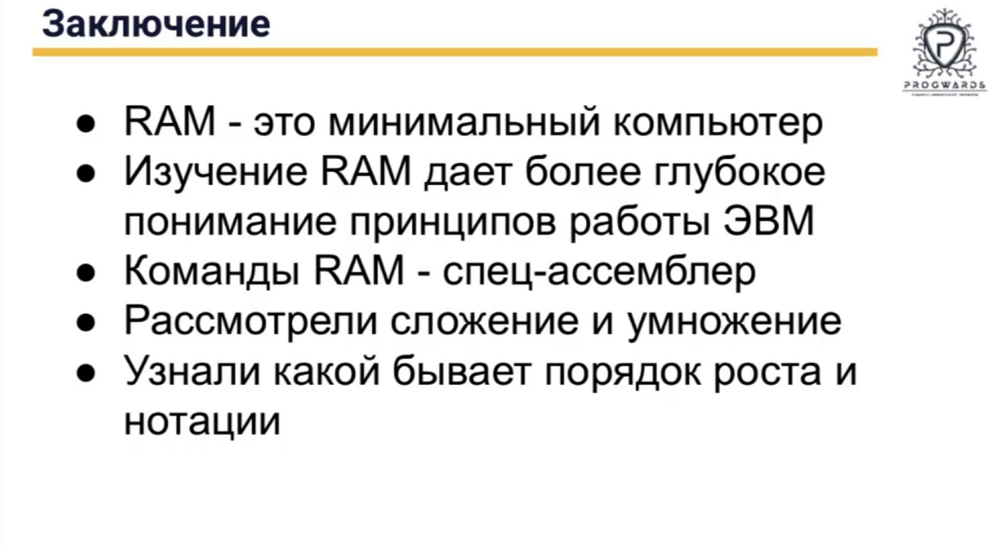
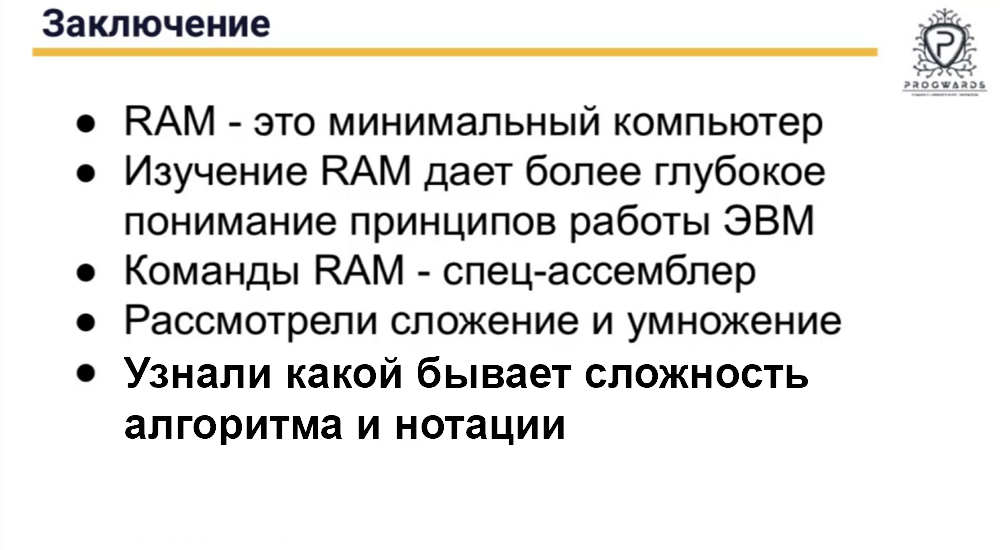
RAM step2

Changed region(s): [[0.124, 0.6491, 0.868, 0.7109], [0.124, 0.7418, 0.589, 0.8036]]

diff --git a/src/A_Visual-Materials/N-01.3 Эмулятор RAM.html b/src/A_Visual-Materials/N-01.3 Эмулятор RAM.html
@@ -40,7 +40,11 @@
 	<div class="row">
 		<div class="column">
 			<img src="images/images_01.3/01.3.1.png">
+			<p>
 			<p></p>
+			* <i class="github-wrap"><a class="github" href="https://github.com/valladim-pw/java-level2-lessons/tree/master/src/Less01_RAMEmulator/src">
+			Файлы по теме</a><span class="fwrap"><i class="fa fa-folder"></i><i class="fa fa-github"></i></span></i></br>
+			</p>
 		</div>
 		<div class="column ">
 			<img src="images/images_01.3/01.3.2.png">
@@ -49,12 +53,12 @@
 		<div class="column">
 			<img src="images/images_01.3/01.3.3.png">
 			<p>
-				<a href="https://ru.wikipedia.org/wiki/RAM-%D0%BC%D0%B0%D1%88%D0%B8%D0%BD%D0%B0">RAM-машина</a></br>
-				<a href="https://ru.wikipedia.org/wiki/%D0%9C%D0%B0%D1%88%D0%B8%D0%BD%D0%B0_%D0%A2%D1%8C%D1%8E%D1%80%D0%B8%D0%BD%D0%B3%D0%B0">
+				* <a href="https://ru.wikipedia.org/wiki/RAM-%D0%BC%D0%B0%D1%88%D0%B8%D0%BD%D0%B0">RAM-машина</a></br>
+				* <a href="https://ru.wikipedia.org/wiki/%D0%9C%D0%B0%D1%88%D0%B8%D0%BD%D0%B0_%D0%A2%D1%8C%D1%8E%D1%80%D0%B8%D0%BD%D0%B3%D0%B0">
 					Машина Тьюринга (Википедия)</a></br>
-				<a href="https://skillbox.ru/media/code/mashina-tyuringa-chto-eto-roskosh-ili-sredstvo-vychisleniya/">
+				* <a href="https://skillbox.ru/media/code/mashina-tyuringa-chto-eto-roskosh-ili-sredstvo-vychisleniya/">
 					Машина Тьюринга</a></br>
-				<a href="https://ru.wikipedia.org/wiki/%D0%A0%D0%B5%D0%B3%D0%B8%D1%81%D1%82%D1%80_(%D1%86%D0%B8%D1%84%D1%80%D0%BE%D0%B2%D0%B0%D1%8F_%D1%82%D0%B5%D1%85%D0%BD%D0%B8%D0%BA%D0%B0)">
+				* <a href="https://ru.wikipedia.org/wiki/%D0%A0%D0%B5%D0%B3%D0%B8%D1%81%D1%82%D1%80_(%D1%86%D0%B8%D1%84%D1%80%D0%BE%D0%B2%D0%B0%D1%8F_%D1%82%D0%B5%D1%85%D0%BD%D0%B8%D0%BA%D0%B0)">
 					Регистр</a></br>
 				* В минимальной машине все операции проводятся только в нулевом регистре.</br>
 				* Остальные регистры служат только для чтения и записи.
@@ -68,9 +72,9 @@
 		<div class="column">
 			<img src="images/images_01.3/01.3.5.png">
 			<p>
-				<a href="https://ru.wikipedia.org/wiki/%D0%9B%D0%BE%D0%B3%D0%B8%D1%87%D0%B5%D1%81%D0%BA%D0%B8%D0%B5_%D1%8D%D0%BB%D0%B5%D0%BC%D0%B5%D0%BD%D1%82%D1%8B">
+				* <a href="https://ru.wikipedia.org/wiki/%D0%9B%D0%BE%D0%B3%D0%B8%D1%87%D0%B5%D1%81%D0%BA%D0%B8%D0%B5_%D1%8D%D0%BB%D0%B5%D0%BC%D0%B5%D0%BD%D1%82%D1%8B">
 					Логический элемент</a></br>
-				<a href="https://yandex.ru/search/?text=%D1%82%D0%B0%D0%BA%D1%82+%D0%BF%D1%80%D0%BE%D1%86%D0%B5%D1%81%D1%81%D0%BE%D1%80%D0%B0+%D1%8D%D1%82%D0%BE+%D0%B2+%D0%B8%D0%BD%D1%84%D0%BE%D1%80%D0%BC%D0%B0%D1%82%D0%B8%D0%BA%D0%B5&lr=6&src=suggest_T">
+				* <a href="https://yandex.ru/search/?text=%D1%82%D0%B0%D0%BA%D1%82+%D0%BF%D1%80%D0%BE%D1%86%D0%B5%D1%81%D1%81%D0%BE%D1%80%D0%B0+%D1%8D%D1%82%D0%BE+%D0%B2+%D0%B8%D0%BD%D1%84%D0%BE%D1%80%D0%BC%D0%B0%D1%82%D0%B8%D0%BA%D0%B5&lr=6&src=suggest_T">
 					Такт процессора</a></br>
 				* Схема на рисунке состоит из логических элементов.</br>
 				* При попадании сигнала на определенный вход идет автоматический перенос сигнала на другие блоки.</br>
@@ -81,7 +85,7 @@
 		<div class="column">
 			<img src="images/images_01.3/01.3.6.png">
 			<p>
-			<a href="https://ru.wikipedia.org/wiki/%D0%A0%D0%B5%D0%B3%D0%B8%D1%81%D1%82%D1%80_(%D1%86%D0%B8%D1%84%D1%80%D0%BE%D0%B2%D0%B0%D1%8F_%D1%82%D0%B5%D1%85%D0%BD%D0%B8%D0%BA%D0%B0)">
+			* <a href="https://ru.wikipedia.org/wiki/%D0%A0%D0%B5%D0%B3%D0%B8%D1%81%D1%82%D1%80_(%D1%86%D0%B8%D1%84%D1%80%D0%BE%D0%B2%D0%B0%D1%8F_%D1%82%D0%B5%D1%85%D0%BD%D0%B8%D0%BA%D0%B0)">
 				Регистр</a>
 			</p>
 			</p>
@@ -147,6 +151,9 @@
 			3. Файл открывается в <i>RAM</i>.	Файл должен быть с расширением <i>.ram</i>, в файле только инструкции (рис.13), 
 			каждая с новой строки, комментарии предваряются знаком <b>точка с запятой</b>.</br>
 			При некорректном отражении кириллицы в комментариях, возможно надо поменять кодировку файла на <i>UTF-8</i> c <i>BOM</i>.</br>
+			* <i class="github-wrap"><a class="github" href="https://github.com/valladim-pw/java-level2-lessons/blob/master/src/Less01_RAMEmulator/src/emuStudio/X_myExercises/add.ram">
+			add.ram</a><i class="fa fa-github"></i>
+			</i></br>
 			</p>
 		</div>
 		<div class="column">
@@ -209,7 +216,11 @@
 		</div>
 		<div class="column">
 			<img src="images/images_01.3/01.3.21.png">
-			<p></p>
+			<p>
+			* <i class="github-wrap"><a class="github" href="https://github.com/valladim-pw/java-level2-lessons/blob/master/src/Less01_RAMEmulator/src/emuStudio/X_myExercises/mul.ram">
+			mul.ram</a><i class="fa fa-github"></i>
+			</i></br>
+			</p>
 		</div>
 		<div class="column">
 			<img src="images/images_01.3/01.3.22.png">
@@ -218,19 +229,20 @@
 		<div class="column">
 			<img src="images/images_01.3/01.3.23.png">
 			<p>
-				*1 Вне зависимости от размера входного массива время выполнения всегда одиноково.</br>
-				*2 Не делается полный перебор, а используются промежуточные вычисления для уменьшения размерности задачи
+			* <b>Временна́я сложность алгоритма (O) определяется как функция от длины строки (n), представляющей входные данные, равная времени работы алгоритма на данном входе.</b></br>
+				1. Вне зависимости от размера входного массива время выполнения всегда одиноково.</br>
+				2. Не делается полный перебор, а используются промежуточные вычисления для уменьшения размерности задачи
 				(динамическое программирование). Например алгоритм быстрого возведения в степень:<br>
-				<a href="https://www.geeksforgeeks.org/iterative-fast-fourier-transformation-polynomial-multiplication/">
+				* <a href="https://www.geeksforgeeks.org/iterative-fast-fourier-transformation-polynomial-multiplication/">
 					Алгоритмы быстрого возведения в степень
 				</a><br>
-				<a href="d:/JAVAProgwards/2.00_JavaAdvanced0421A_lessons/Less01_JVM-JRE-JDK-JIT_Decompilation-ByteCode/src/_3_EmulatorRAM/FastPow.java">
-					FastPow.java
-				</a><br>
-				*3 Например задача просуммировать все элементы массива.</br>
-				*7 <a href="https://ru.wikipedia.org/wiki/%D0%AD%D0%BA%D1%81%D0%BF%D0%BE%D0%BD%D0%B5%D0%BD%D1%82%D0%B0">
+				* <i class="github-wrap"><a class="github" href="https://github.com/valladim-pw/java-level2-lessons/blob/master/src/Less01_JVM_JDK_Decompilation_ByteCode/_3_EmulatorRAM/FastPow.java">
+			FastPow.java</a><i class="fa fa-github"></i>
+			</i></br>
+				3. Например задача просуммировать все элементы массива.</br>
+				7. * <a href="https://ru.wikipedia.org/wiki/%D0%AD%D0%BA%D1%81%D0%BF%D0%BE%D0%BD%D0%B5%D0%BD%D1%82%D0%B0">
 					Экспонента</a></br>
-				*8 <a href="https://ru.wikipedia.org/wiki/%D0%A4%D0%B0%D0%BA%D1%82%D0%BE%D1%80%D0%B8%D0%B0%D0%BB">
+				8. * <a href="https://ru.wikipedia.org/wiki/%D0%A4%D0%B0%D0%BA%D1%82%D0%BE%D1%80%D0%B8%D0%B0%D0%BB">
 					Факториал</a>
 			</p>
 		</div>
